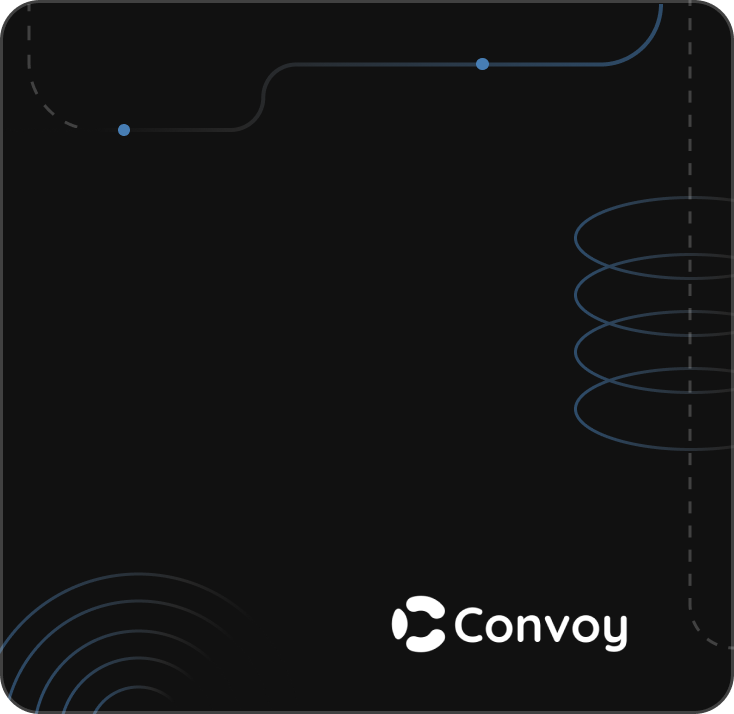
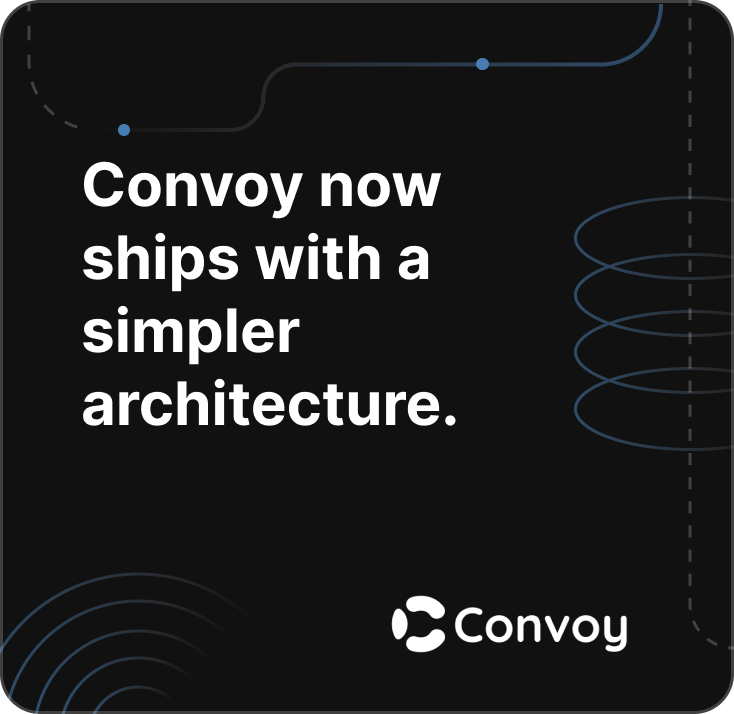
fixed: article image

Changed region(s): [[0.0899, 0.2157, 0.5995, 0.4006], [0.0899, 0.4314, 0.6294, 0.6162]]

diff --git a/src/app/(main)/blog/articles/convoy-new-architecture.md b/src/app/(main)/blog/articles/convoy-new-architecture.md
@@ -9,11 +9,10 @@ primary_tag: Product Update
 tags:
     - Convoy
     - Product Update 
-featured: false 
+featured: true 
 description: 'In our latest release, we’ve simplified Convoy’s architecture. In this article I describe a little bit more about the architecture and the benefits for Convoy.'
 published_at: 2024-09-11T17:00:00.000+00:00
 ---
-
 
 In our latest release (`v24.8.x` series), we’ve simplified Convoy’s architecture. In this article I describe a little bit more about the architecture and the benefits for Convoy. You can refer to the [docs](https://docs.getconvoy.io/deployment/architecture) to learn more about each component and their responsibility in the overall design. But before we discuss the new architecture, let’s juxtapose our old and new architecture.
 
@@ -34,3 +33,7 @@ The final benefit I’d like to highlight is cost. In our previous architecture,
 A hallmark of good software design is when several unintended benefits emerge naturally from it. This architecture has laid a strong foundation for us to enhance the data processing pipeline, allowing us to achieve even higher reliability and performance guarantees. I’m excited to share more updates as we continue to make progress. That’s all for now. :)
 
 Take care!
+
+## Getting Started with Convoy
+
+Want to add webhooks to your API in minutes? You can get started at [cloud.getconvoy.io/signup](http://cloud.getconvoy.io/signup).

diff --git a/src/app/(main)/blog/articles/end-to-end-test-suite-with-test-containers.md b/src/app/(main)/blog/articles/end-to-end-test-suite-with-test-containers.md
@@ -9,7 +9,7 @@ primary_tag: Engineering
 tags:
   - Convoy
   - Engineering
-featured: true 
+featured: false 
 description: For the last 3 years, Convoy has been an indispensable tool for developers to securely send and receive millions of webhook events daily and at a massive scale. And since it is open source, many developers contribute to the project to ensure it remains highly customisable,  performant, efficient and reliable.
 published_at: 2024-08-07T17:00:00.000+00:00 
 --- 
